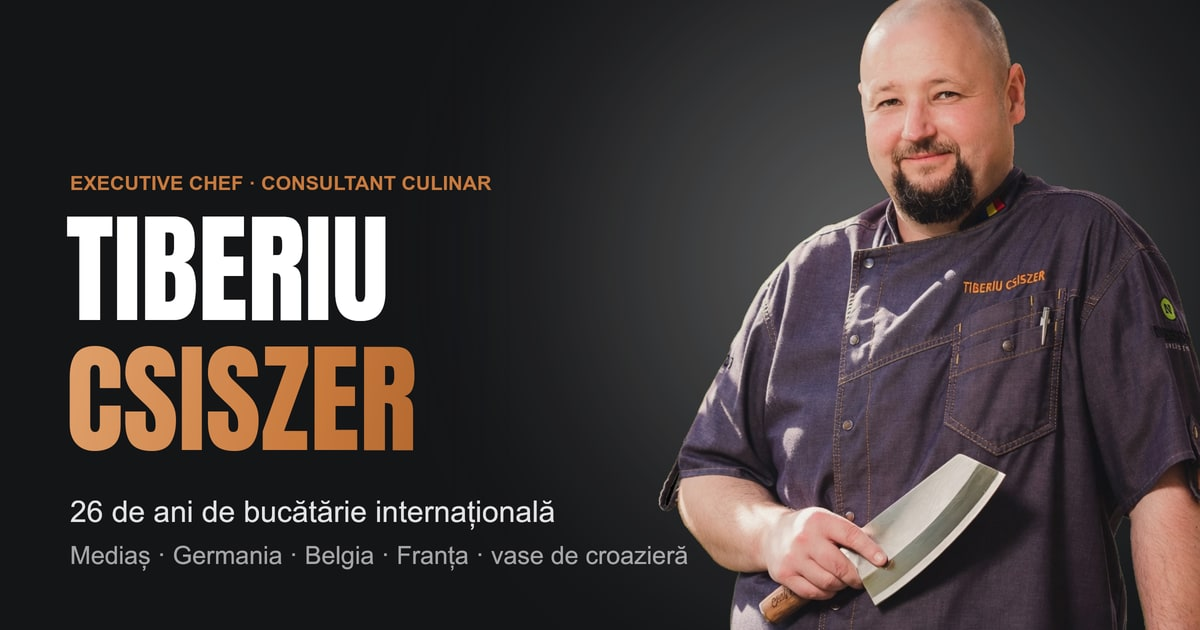
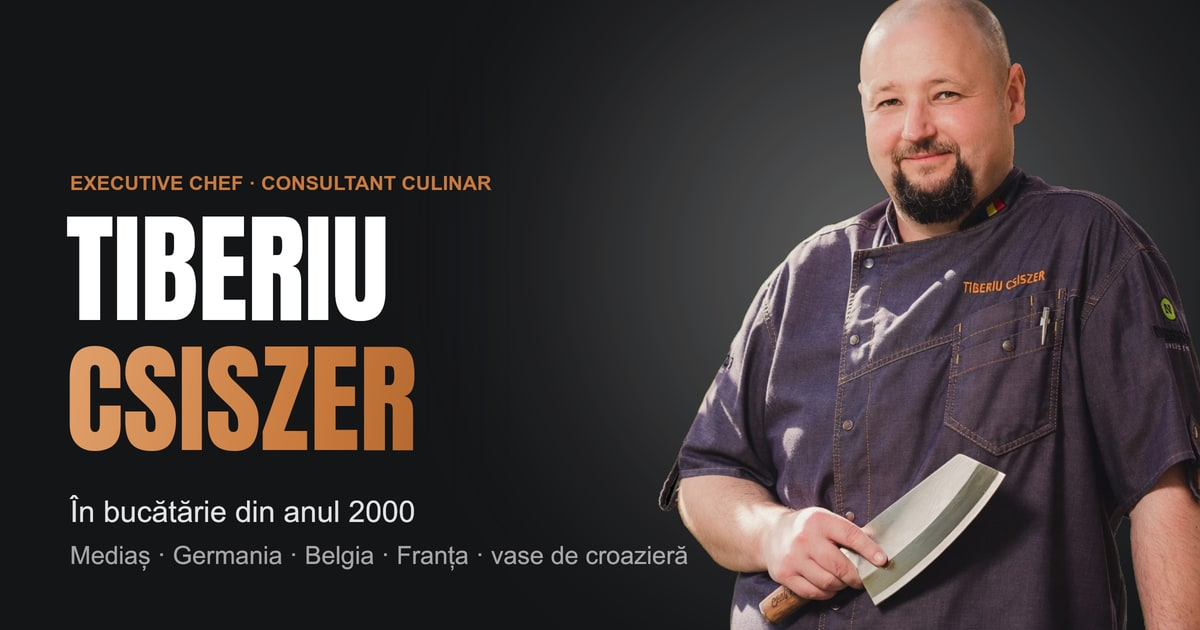
feat: years in the kitchen compute themselves from the year 2000
Every "26 de ani" on the page was hand-written and would go stale each
January. The page now computes current year minus 2000 (the Sibiu course)
at load time -- hero line, the stat tile and the About paragraph all
follow, including the spelled-out "douazeci si sase" which becomes the
computed numeral.

The two static surfaces crawlers read without running code -- the meta
descriptions and the baked share-card image -- cannot compute, so they
switch to evergreen wording instead: "in bucatarie din anul 2000". The
card is re-rendered with that line, same look, still 79KB under the
WhatsApp preview cap.

Changed region(s): [[0.0617, 0.7841, 0.4625, 0.8444]]

diff --git a/src/App.tsx b/src/App.tsx
@@ -21,6 +21,9 @@ const requestTypes = [
   'Altceva',
 ]
 
+/** 2000 = cursul de la Sibiu. Recalculat la fiecare încărcare — nu îmbătrânește. */
+const YEARS = new Date().getFullYear() - 2000
+
 const nav = [
   { href: '#despre', label: 'Despre' },
   { href: '#servicii', label: 'Servicii' },
@@ -63,7 +66,7 @@ const competitions = [
 
 const stats = [
   // 2000 (primul curs, Sibiu) → anul curent. Restaurante și bucătari: cifrele lui Tibi.
-  { value: '26', label: 'Ani în bucătărie' },
+  { value: `${YEARS}`, label: 'Ani în bucătărie' },
   { value: '25', label: 'Restaurante consiliate' },
   { value: '100+', label: 'Bucătari instruiți' },
   { value: '#1', label: 'Best Chef IPA' },
@@ -510,8 +513,8 @@ function Hero() {
 
         <div className="max-w-md md:max-w-lg">
           <p className="mt-6 max-w-lg text-base leading-relaxed text-white/80 md:text-lg">
-            Restaurantul tău pierde bani pe meniu? Pun în serviciul afacerii tale 26 de ani de
-            bucătărie: Mediaș, Germania, Belgia, vase de croazieră, Franța și România.
+            Restaurantul tău pierde bani pe meniu? Pun în serviciul afacerii tale {YEARS} de ani
+            de bucătărie: Mediaș, Germania, Belgia, vase de croazieră, Franța și România.
           </p>
 
           <div className="mt-9 flex flex-wrap gap-3">
@@ -699,7 +702,7 @@ function About() {
                   <span className="font-medium text-gold">
                     Ce înseamnă asta pentru restaurantul tău:
                   </span>{' '}
-                  douăzeci și șase de ani de greșeli făcute și reparate în bucătării adevărate,
+                  {YEARS} de ani de greșeli făcute și reparate în bucătării adevărate,
                   vreo 25 de restaurante puse pe picioare și peste 100 de bucătari instruiți —
                   oameni care azi gătesc pe vase de croazieră, în Germania, în Franța și cei mai
                   mulți aici, în România. Nu vin cu teorie de curs, vin cu ce am văzut că ține la

diff --git a/index.html b/index.html
@@ -12,12 +12,12 @@
     <title>Tiberiu Csiszer — Chef & Consultant Culinar</title>
     <meta
       name="description"
-      content="Sunt Chef Tiberiu Csiszer. Deschid restaurante, optimizez bucătării existente și instruiesc echipe — 26 de ani de experiență, 25 de restaurante consiliate, peste 100 de bucătari instruiți."
+      content="Sunt Chef Tiberiu Csiszer. Deschid restaurante, optimizez bucătării existente și instruiesc echipe — în bucătărie din anul 2000, 25 de restaurante consiliate, peste 100 de bucătari instruiți."
     />
     <meta property="og:title" content="Tiberiu Csiszer — Chef & Consultant Culinar" />
     <meta
       property="og:description"
-      content="26 de ani în bucătărie — Mediaș, Germania, Belgia, vase de croazieră, Franța și România. 25 de restaurante consiliate, 100+ bucătari instruiți, locul 1 la Best Chef IPA."
+      content="În bucătărie din anul 2000 — Mediaș, Germania, Belgia, vase de croazieră, Franța și România. 25 de restaurante consiliate, 100+ bucătari instruiți, locul 1 la Best Chef IPA."
     />
     <meta property="og:image" content="https://chefcsiszertiberiu.github.io/images/og-card.jpg" />
     <meta property="og:image:width" content="1200" />
